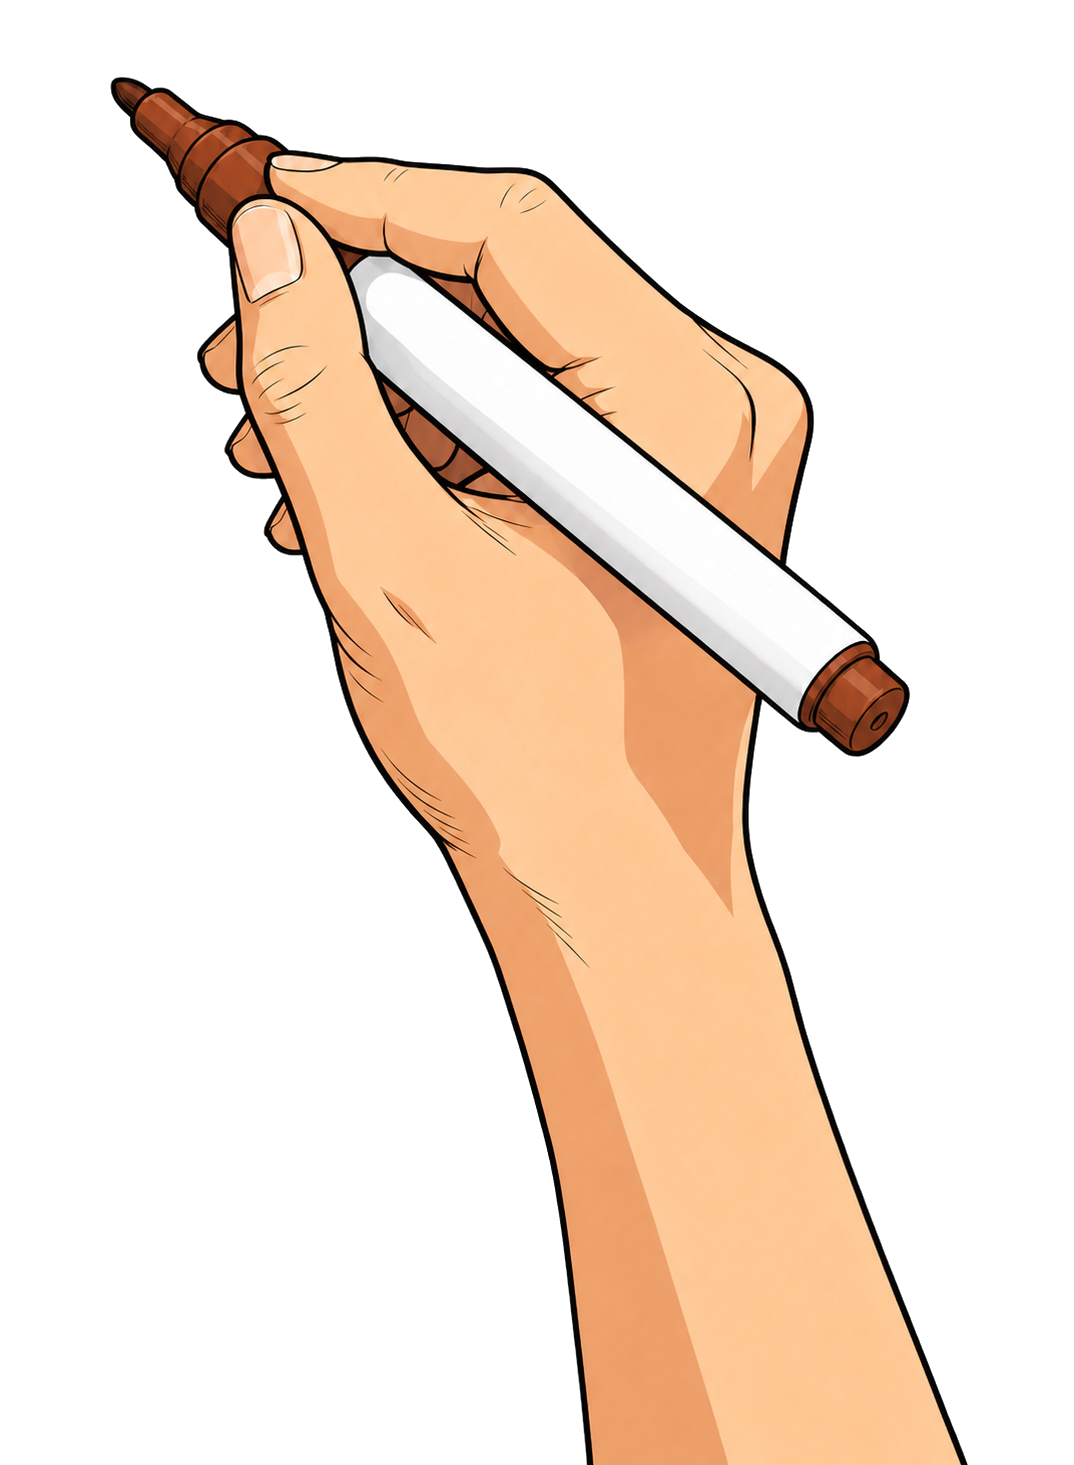
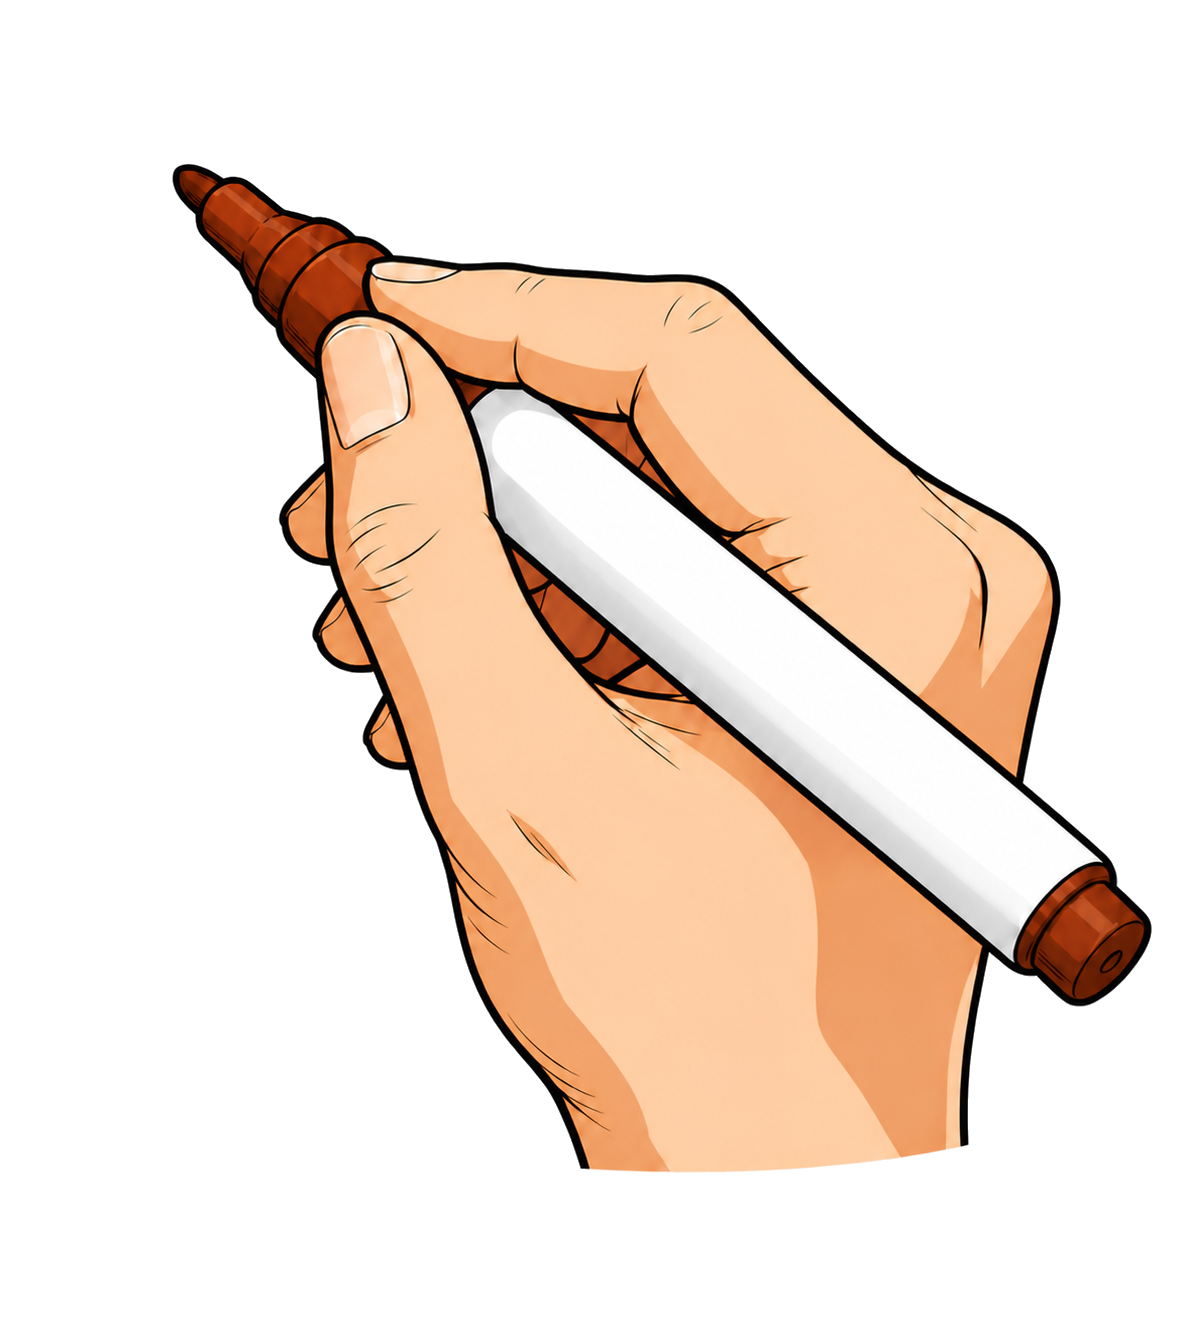
feat: expand hand overlay size controls

diff --git a/web/src/lib/render-config.js b/web/src/lib/render-config.js
@@ -1,6 +1,6 @@
 export const DEFAULT_HAND_SIZE = 100;
-export const MIN_HAND_SIZE = 60;
-export const MAX_HAND_SIZE = 160;
+export const MIN_HAND_SIZE = 0;
+export const MAX_HAND_SIZE = 150;
 export const HAND_SIZE_STEP = 5;
 
 export function normalizeHandSize(handSize = DEFAULT_HAND_SIZE) {
@@ -12,16 +12,17 @@ export function normalizeHandSize(handSize = DEFAULT_HAND_SIZE) {
 
 export function previewHandHeight(handMode = "marker", handSize = DEFAULT_HAND_SIZE) {
   const normalizedMode = handMode === true ? "marker" : handMode === false ? "none" : handMode;
-  const baseHeight = normalizedMode === "pen" ? 420 : 470;
+  const baseHeight = normalizedMode === "pen" ? 270 : 300;
   return Math.round(baseHeight * normalizeHandSize(handSize) / 100);
 }
 
 export function rendererHandConfig(handMode = "marker", handSize = DEFAULT_HAND_SIZE) {
   const normalizedMode = handMode === true ? "marker" : handMode === false ? "none" : handMode;
+  const height = previewHandHeight(normalizedMode, handSize);
   return {
-    enabled: normalizedMode !== "none",
+    enabled: normalizedMode !== "none" && height > 0,
     style: normalizedMode,
-    height: previewHandHeight(normalizedMode, handSize),
+    height,
     anchor: [0, 0],
   };
 }

diff --git a/web/src/App.jsx b/web/src/App.jsx
@@ -153,6 +153,7 @@ function drawPreviewHand(context, handAsset, point, handMode, handSize, motion) 
   if (!handAsset || !point) return;
   const { image, crop } = handAsset;
   const height = previewHandHeight(handMode, handSize);
+  if (height <= 0) return;
   const width = height * crop.width / crop.height;
   context.save();
   context.globalAlpha = motion.opacity;

diff --git a/scripts/render_document_annotation.py b/scripts/render_document_annotation.py
@@ -372,8 +372,9 @@ class DocumentAnnotationRenderer:
         try:
             if not all(0.0 <= float(value) <= 1.0 for value in anchor):
                 raise ProjectError("hand.anchor 必须在 0..1")
-            if int(hand.get("height", max(1, round(self.height * 0.38)))) <= 0:
-                raise ProjectError("hand.height 必须大于 0")
+            hand_height = int(hand.get("height", max(1, round(self.height * 0.38))))
+            if hand_height < 0 or (hand.get("enabled", True) is not False and hand_height == 0):
+                raise ProjectError("hand.height 必须为非负数，启用手部素材时必须大于 0")
         except (TypeError, ValueError) as exc:
             raise ProjectError("hand.anchor/height 数值无效") from exc
         typography = self.project.get("typography", {})

diff --git a/tests/test_document_annotation.py b/tests/test_document_annotation.py
@@ -153,6 +153,15 @@ class RendererTests(unittest.TestCase):
         with self.assertRaises(ProjectError):
             DocumentAnnotationRenderer(project, path)
 
+    def test_zero_height_is_valid_only_when_hand_overlay_is_disabled(self) -> None:
+        project, path = self._project([])
+        project["hand"] = {"enabled": False, "height": 0}
+        DocumentAnnotationRenderer(project, path)
+
+        project["hand"] = {"enabled": True, "height": 0}
+        with self.assertRaises(ProjectError):
+            DocumentAnnotationRenderer(project, path)
+
     def test_validate_only_loads_annotation_image_assets(self) -> None:
         project, path = self._project(
             [

diff --git a/web/AGENTS.md b/web/AGENTS.md
@@ -32,5 +32,6 @@ Build app UI in `src/`. Keep `.openai/hosting.json`, `worker/index.js`, `scripts
 - The bottom timeline and preview transport operate on cumulative project time, not only the selected scene. Playback crosses scene boundaries automatically, the ruler/playhead/waveform span the full project duration, and the footer shows both global and scene-local time.
 - Preview mirrors the selected hand mode: marker/pen overlays the bundled transparent hand with its cropped top-left pen tip anchored to the active annotation's progressive endpoint; `none` never draws it. Text writing adds deterministic character-paced micro-motion, subtle wrist rotation/pressure variation, and pen-down/pen-up fades; the renderer applies the same positional rhythm. The hand is visible only while an annotation is actively revealing.
 - Preview and MP4 export must share the same easing, hand crop anchor, mode-specific size, rotation, scale, opacity, and positional motion. A completed download returns the primary action to “Tạo MP4”, and any project edit invalidates a completed or in-flight render so stale output is never offered.
-- Hand and pen are one visual overlay whose project-level size is adjustable from 60–160% in 5% steps (default 100%). The value must persist across reloads, update preview immediately, produce the same MP4 geometry, and invalidate stale renders when changed.
+- Hand and pen are one visual overlay whose project-level size is adjustable from 0–150% in 5% steps (default 100%). At 0%, the overlay is hidden while annotations continue rendering. The value must persist across reloads, update preview immediately, produce the same MP4 geometry, and invalidate stale renders when changed.
 - The bundled hand-and-pen artwork must remain language-neutral: the pen barrel contains no Chinese characters, labels, logos, or other printed text in thumbnails, preview, or exported MP4.
+- The hand overlay is compact: show the complete writing hand and only a short section immediately below the wrist, never a long forearm. Keep the pen fully visible with transparent breathing room around both ends.
